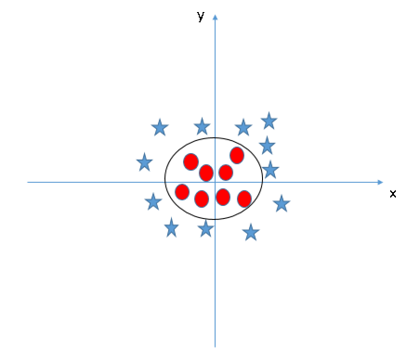
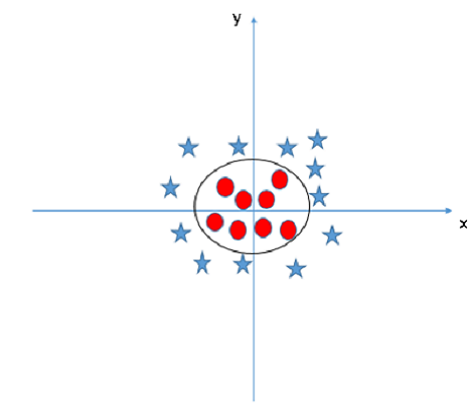
Deleted image and resized, fixed here link

diff --git a/docs/source/content/overview/linear_SVM.rst b/docs/source/content/overview/linear_SVM.rst
@@ -84,18 +84,11 @@ classified with a circle that separates the data.
 
 Here is an example of the kernel trick.
 
-.. figure:: _img/SVM_Kernel1.png
-   :scale: 50%
-   :alt: Kernel X Z graph
-
-   Ref:  https://www.analyticsvidhya.com/blog/2017/09/understaing-support-vector-machine-example-code/
-
 .. figure:: _img/SVM_Kernel2.png
    :scale: 50%
    :alt: Kernel X Y graph
 
    Ref:  https://www.analyticsvidhya.com/blog/2017/09/understaing-support-vector-machine-example-code/
-
 
 
 There are three types of kernels:
@@ -136,8 +129,8 @@ by using kernel tricks, so try using the different kernels like Radial Basis Fun
 
 Code Example
 -------------
-Check out our code, `here`_ to learn how to implement a linear SVM using Python's Scikit-learn library. 
-More information about `Scikit-Learn`_ can be found here. 
+Check out our code, `linear_svm.py`_ to learn how to implement a linear SVM using Python's Scikit-learn library. 
+More information about Scikit-Learn can be found `here`_. 
 
 `linear_svm.py`_, Classifies a set of data on breast cancer, loaded from Scikit-Learn's dataset library. 
 The program will take the data and plot them on a graph, then use the SVM to create a hyperplane to separate the data.
@@ -168,7 +161,7 @@ the data. You can change it here in the code:
     model.fit(data, target)
 
 
-.. _Scikit-Learn: https://scikit-learn.org
+.. _here: https://scikit-learn.org
 
-.. _here: /code/linear_svm.py
+.. _linear_svm.py: /code/linear_svm.py
 
